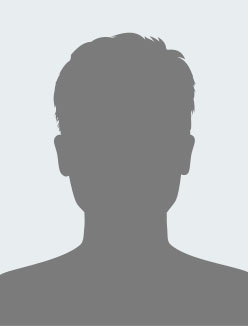
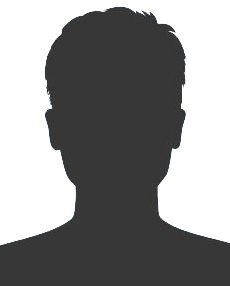
updates on administration page

diff --git a/fontys-global-guide/src/pages/fontysDiscover.jsx b/fontys-global-guide/src/pages/fontysDiscover.jsx
@@ -1,84 +1,81 @@
 import { useState } from 'react';
-
-// Import je eigen images
-import imgMyron from '../../assets/man-silliouet-pasfoto.jpg';
-import imgNathan from '../../assets/man-silliouet-pasfoto.jpg';
-import imgShirin from '../../assets/vrouw-silliouet-pasfoto.jpg';
+import '../styles/FontysDiscover.css';
 
 export default function FontysDiscover() {
-    const [currentStory, setCurrentStory] = useState(0);
+  const stories = [
+    {
+      title: "Nathan's Journey",
+      text: "Als ICT student ontdekte ik mijn passie voor UI/UX design tijdens een minor project.",
+      image: "https://via.placeholder.com/200x250/4A5568/ffffff?text=Nathan"
+    },
+    {
+      title: "Myron's Experience",
+      text: "Door Fontys Discover vond ik geweldige stageplekken en maakte ik verbinding met bedrijven.",
+      image: "https://via.placeholder.com/200x250/4A5568/ffffff?text=Myron"
+    },
+    {
+      title: "Shirin's Story",
+      text: "De campus events hielpen me om nieuwe vrienden te maken en mijn netwerk uit te breiden.",
+      image: "https://via.placeholder.com/200x250/4A5568/ffffff?text=Shirin"
+    }
+  ];
 
-    const stories = [
-        {
-            title: "Nathan's Journey",
-            text: "Als ICT student ontdekte ik mijn passie voor UI/UX design tijdens een minor project.",
-            image: imgNathan
-        },
-        {
-            title: "Myron's Experience",
-            text: "Door Fontys Discover vond ik geweldige stageplekken en maakte ik verbinding met bedrijven.",
-            image: imgMyron
-        },
-        {
-            title: "Shirin's Story",
-            text: "De campus events hielpen me om nieuwe vrienden te maken en mijn netwerk uit te breiden.",
-            image: imgShirin
-        }
-    ];
+  return (
+    <div className="fontys-container">
+      {/* Navigation Bar */}
+      <div className="nav-bar">
+      </div>
 
-    return (
-        <div className="min-h-screen bg-white p-8">
-            <div className="max-w-5xl mx-auto border-2 border-black p-8">
-
-                {/* Header */}
-                <div className="mb-8">
-                    <h1 className="text-2xl font-bold">Fontys discover</h1>
-                </div>
-
-                {/* Info Box */}
-                <div className="border-2 border-black p-12 mb-8 text-center">
-                    <p className="text-lg">Hier komt informatie over fontys</p>
-                </div>
-
-                {/* Three Column Section */}
-                <div className="grid grid-cols-3 gap-4 mb-8">
-                    {stories.map((story, index) => (
-                        <div
-                            key={index}
-                            className="border-2 border-black p-6 flex items-center gap-4 hover:bg-gray-50 transition-colors"
-                        >
-                            <img
-                                src={story.image}
-                                alt={story.title}
-                                className="w-20 h-20 object-cover rounded-full border-2 border-gray-300 flex-shrink-0"
-                            />
-                            <div className="text-left">
-                                <h3 className="font-bold text-sm mb-2">{story.title}</h3>
-                                <p className="text-xs leading-relaxed text-gray-700">
-                                    {story.text}
-                                </p>
-                            </div>
-                        </div>
-                    ))}
-                </div>
-
-                {/* Bottom Buttons */}
-                <div className="flex gap-4 mt-8">
-                    <button
-                        onClick={() => alert('Navigating to Expense Tracker...')}
-                        className="flex-1 border-2 border-black py-3 text-sm font-medium hover:bg-gray-100 transition-colors"
-                    >
-                        EXPENSE TRACKER
-                    </button>
-                    <button
-                        onClick={() => alert('Navigating to Fontys Discover...')}
-                        className="flex-1 border-2 border-black py-3 text-sm font-medium hover:bg-gray-100 transition-colors"
-                    >
-                        FONTYS DISCOVER
-                    </button>
-                </div>
-
-            </div>
+      {/* Main Content Container */}
+      <div className="main-content">
+        {/* Title Section */}
+        <div className="title-section">
+          <h1 className="main-title">Fontys Discovery</h1>
+          <p className="subtitle">
+            Hier komt tekst over fontys
+          </p>
         </div>
-    );
+
+        {/* Three Cards Section */}
+        <div className="cards-container">
+          {stories.map((story, index) => (
+            <div key={index} className="story-card">
+              {/* Card Image Area */}
+              <div className="card-image-section">
+                <div className="image-frame">
+                  <img
+                    src={story.image}
+                    alt={story.title}
+                    className="story-image"
+                  />
+                </div>
+              </div>
+              
+              {/* Card Text Area */}
+              <div className="card-text-section">
+                <h3 className="story-title">{story.title}</h3>
+                <p className="story-text">{story.text}</p>
+              </div>
+            </div>
+          ))}
+        </div>
+
+        {/* Bottom Buttons */}
+        <div className="buttons-container">
+          <button 
+            className="action-button"
+            onClick={() => alert('Navigating to Expense Tracker...')}
+          >
+            EXPENSE TRACKER
+          </button>
+          <button 
+            className="action-button"
+            onClick={() => alert('Navigating to Campus Explorer...')}
+          >
+            CAMPUS EXPLORER
+          </button>
+        </div>
+      </div>
+    </div>
+  );
 }

diff --git a/fontys-global-guide/src/styles/FontysDiscover.css b/fontys-global-guide/src/styles/FontysDiscover.css
@@ -1,0 +1,121 @@
+/* FontysDiscover.css */
+
+.fontys-container {
+  min-height: 100vh;
+  background-color: white;
+  display: flex;
+  flex-direction: column;
+  max-width: 428px; /* iPhone 14 Pro Max breedte */
+  margin: 0 auto;
+}
+
+.main-content {
+  flex: 1;
+  border-left: 4px solid black;
+  border-right: 4px solid black;
+  border-bottom: 4px solid black;
+  display: flex;
+  flex-direction: column;
+}
+
+.title-section {
+  padding: 24px;
+  text-align: center;
+}
+
+.main-title {
+  font-size: 20px;
+  font-weight: bold;
+  margin-bottom: 16px;
+}
+
+.subtitle {
+  font-size: 14px;
+  text-decoration: underline;
+}
+
+.cards-container {
+  flex: 1;
+  padding: 0 16px 24px 16px;
+  display: flex;
+  flex-direction: column;
+  gap: 16px;
+}
+
+.story-card {
+  border: 4px solid black;
+  display: flex;
+  flex-direction: row;
+  height: 128px;
+}
+
+.card-image-section {
+  width: 112px;
+  border-right: 4px solid black;
+  background-color: #f9fafb;
+  display: flex;
+  align-items: center;
+  justify-content: center;
+  padding: 8px;
+}
+
+.image-frame {
+  width: 80px;
+  height: 96px;
+  border: 2px solid black;
+  background-color: white;
+  overflow: hidden;
+}
+
+.story-image {
+  width: 100%;
+  height: 100%;
+  object-fit: cover;
+}
+
+.card-text-section {
+  flex: 1;
+  padding: 12px;
+  display: flex;
+  flex-direction: column;
+  justify-content: center;
+}
+
+.story-title {
+  font-weight: bold;
+  font-size: 12px;
+  margin-bottom: 4px;
+}
+
+.story-text {
+  font-size: 12px;
+  color: #374151;
+  overflow: hidden;
+  text-overflow: ellipsis;
+  display: -webkit-box;
+  line-clamp: 3;
+  -webkit-line-clamp: 3;
+  -webkit-box-orient: vertical;
+}
+
+.buttons-container {
+  display: flex;
+  flex-direction: column;
+  gap: 12px;
+  padding: 0 111px 24px 111px;
+}
+
+.action-button {
+  width: 100%;
+  border: 4px solid black;
+  padding: 12px 16px;
+  background-color: white;
+  font-weight: bold;
+  font-size: 12px;
+  cursor: pointer;
+  transition: background-color 0.2s;
+}
+
+.action-button:hover {
+  background-color: #f3f4f6;
+}

diff --git a/fontys-global-guide/src/App.jsx b/fontys-global-guide/src/App.jsx
@@ -17,7 +17,7 @@ function App() {
     <>
       <Navbar />
       <Routes>
-        <Route path="/" element={<Administration />} />
+        <Route path="/" element={<FontysDiscover />} />
         <Route path="/city-guide" element={<CityGuide />} />
         <Route path="/housing" element={<Housing />} />
         <Route path="/administration" element={<Administration />} />
